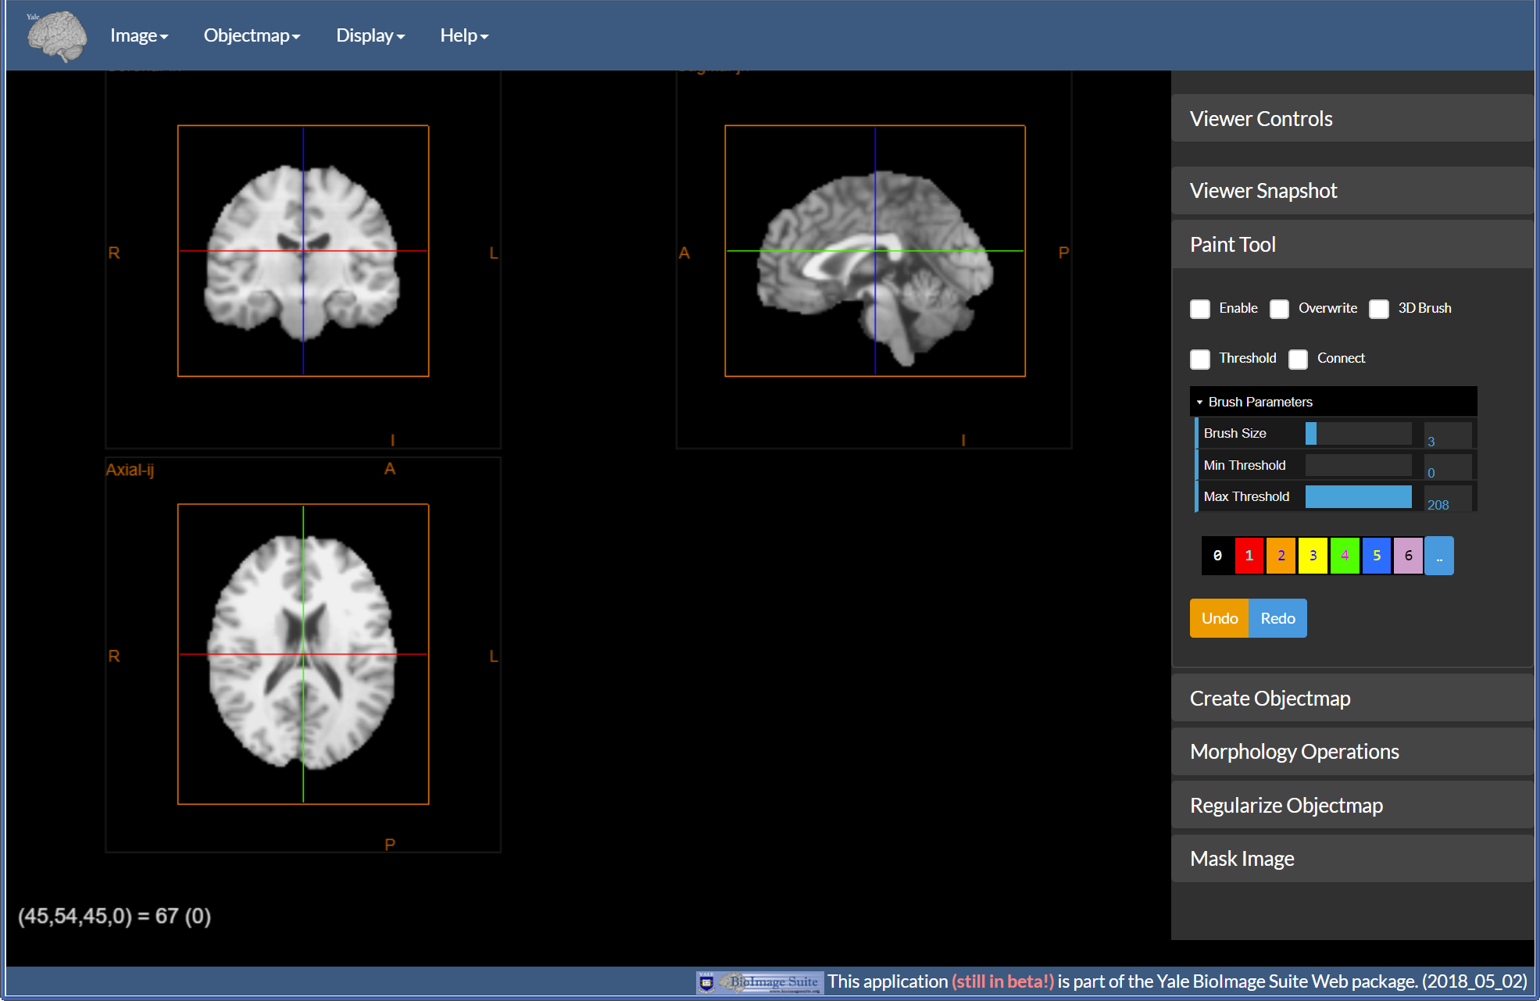
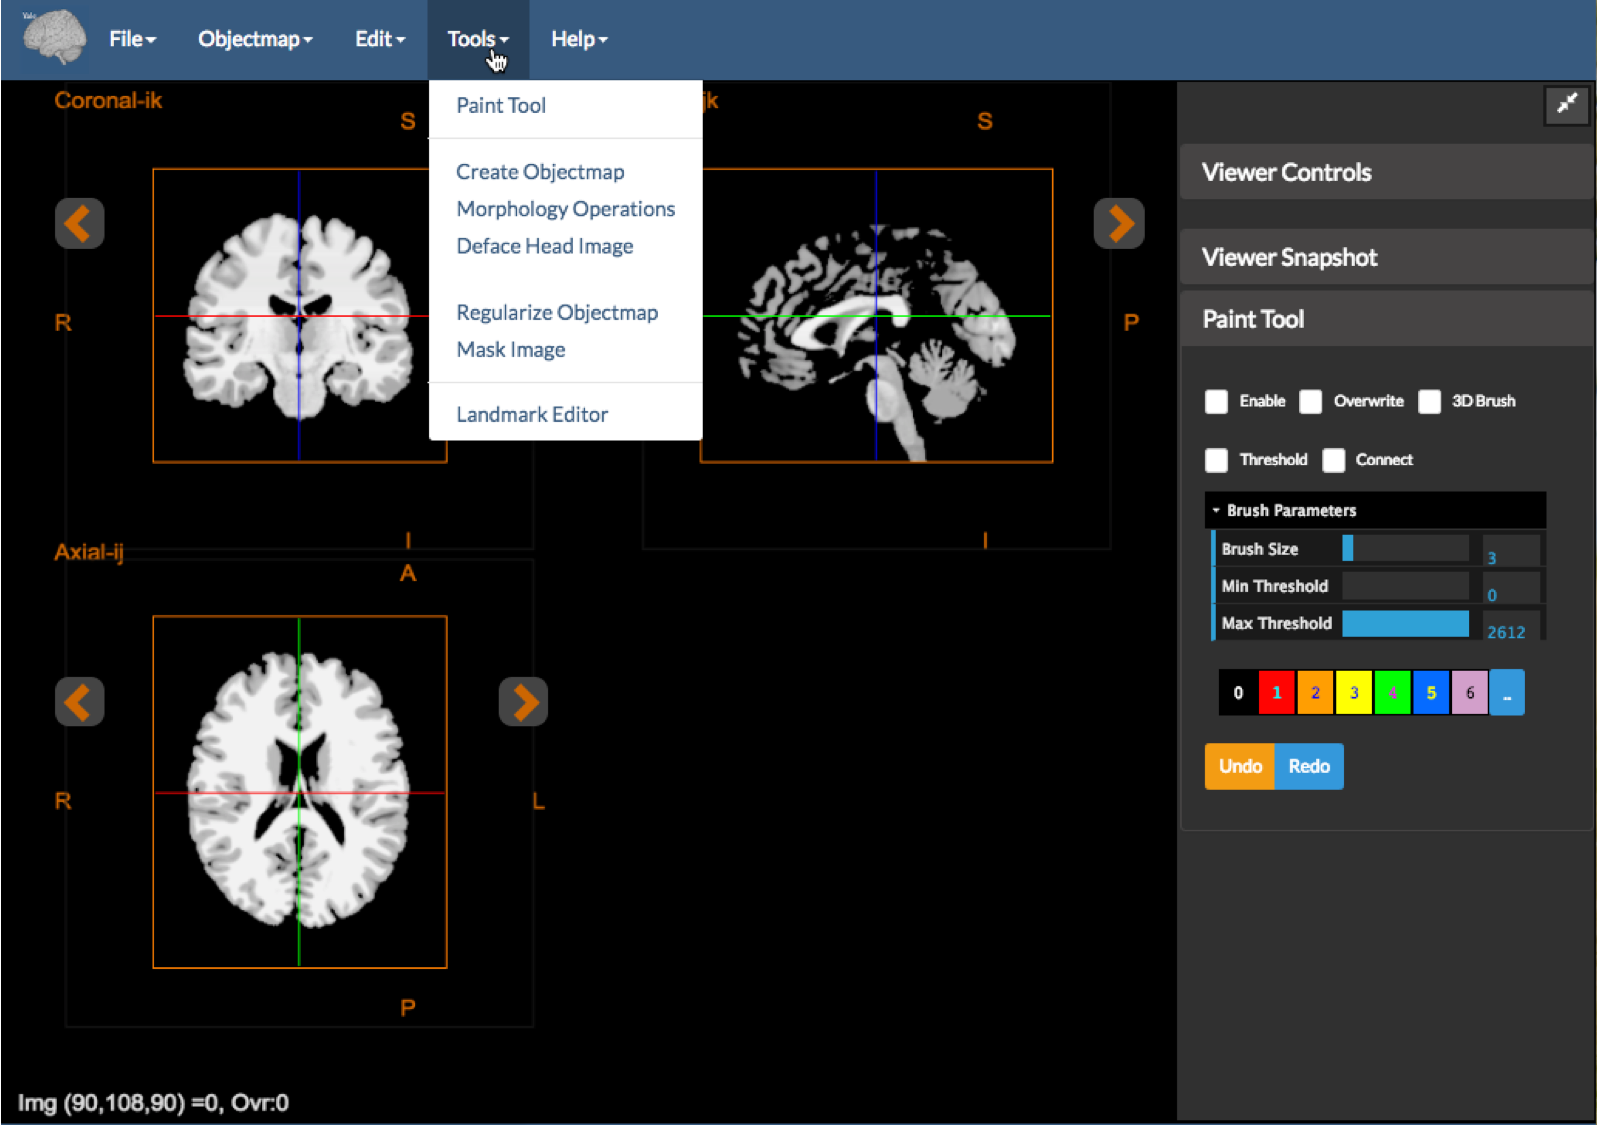
updaes to manual Sep 2018

diff --git a/docs/README.md b/docs/README.md
@@ -81,15 +81,14 @@ All BioImage Suite web applications share components and have a similar user int
 The application consists of the following parts:
 
 * A. The Menu Bar -- this provides access to all algorithmic functionality in the application. 
-    * `Image` -- functionality for loading and saving the underlay anatomical image
+    * `File` -- functionality for loading and saving the underlay anatomical image
     * `Overlay` -- functionality for loading and saving (and clearing) the overlay functional image. 
     * `Edit' -- typically contains Undo and Redo functionality for image manipulation operations and tools to move images from overlay to image etc.
     * `Image Processing` -- this contains the image processing tools.
     * `Segmentation` -- this contains more modules to perform image segmentation. In the `Dual Viewer` application there is also a `Registration` menu that contains the image registration tools.
-    * `Display` -- in this single viewer, this simply has an option to display information about the currently display image. In the `Dual Viewer` application there are additional options to set the relative size of the two viewers.
     * `Help` -- this contains the usual `About this Application` option plus options for setting user preferences.
 
-* B. The Viewer (one application has two viewers). This can display the two images in either single slice or three-linked slice views. There is also a viewer component (see `Overlay Tool`) which displays multiple parallel sections of the same image.
+* B. The Viewer (one application has two viewers). This can display the two images in either single slice or three-linked slice views. There is also a viewer component (see `Overlay Tool`) which displays multiple parallel sections of the same image. The orange arrows next to each slice view allow you to increment or decrement that slice as desired. If the image is '4D' movie controls will appear at the bottom of the screen.
 
 * C. The image information under the cursor. As you click in the image, the current coordinates (i,j,k) of the image and the current intensity of the image (and the overlay if present) are shown here.
 
@@ -104,7 +103,7 @@ The application consists of the following parts:
     * The `Z-` and `Z+` buttons perform zoom in and out operations. You may also zoom using the mouse wheel in the usual way.
     * The `?` button shows the current image information ('See H'). 
 
-* F. In the case of a 4D image, there will be extra controls in the `Viewer Controls`. This include the `Frame` slider for slecting the frame and the `Movie` controls for playing a movie and setting the framerate.
+* F. Expanded View of the Viewer Controls. In the case of a 4D image, there will be extra controls in the `Viewer Controls`. This include the `Frame` slider for slecting the frame and the `Movie` controls for playing a movie and setting the framerate.
 
 * G. The image color-mapping controls. This set the windowing for the anatomical image. Values below 'Min Int' are to black (and also fully transparent) and intensities above 'Max Int' are saturated to white. The `Interpolate` flag can be used to allow WebGL interpolation or not (smoother images vs being able to see the actual voxels). Finally the `Auto-Contrast` toggle enables automatic windowing if this is desired. If there is a funtional image loaded, an additional set of controls called `Overlap Color Mapping` will appear. More on this below.
 
@@ -115,7 +114,7 @@ The application consists of the following parts:
 * `Crop` -- if turned on automatically crops empty space in the viewer to give a more pleasing snapshot.
 * `Take Snapshot` -- this actually invokes the code to acquire a snapshot.
 
-* J. The `_` button at the top right of the sidebar can be used to minimize and restore the sidebar.
+* J. The "double arrow" button at the top right of the sidebar can be used to minimize and restore the sidebar.
 
 ---
 
@@ -138,6 +137,8 @@ To try this out, open the application from the main BioImage Suite web page (und
         * `Max Overlay` : values above these are saturated.
         * `Cluster Size` : if this is greater than 0 then cluster filtering is performed to eliminate `small` blobs.
     * `Red`, `Green`, `Blue`, `Orange`, `Gray` -- this display the image using an anatomical style mapping. This is useful for overlaying two anatomical images to check registration results etc. In this setting, no clustering is performed and the colorscale is hidden.
+
+_Note_: In the bottom corner of the viewer, the text ``Img (30,36,20) = 183.09, Ovr=-2203.83` now shows the intensity of both the anatomical image (183.09) and the overlay image (-2203.83).
 
 This viewer can also be switched to `Mosaic` view by clicking the `Mosaic` Tab (just below the menu).
 
@@ -166,7 +167,7 @@ The Image Editor tool shown above is a tool to create and visualize interactive 
 
 One can create an objectmap on one of three ways:
 
-* Load it from an existing binary file
+* Load it from an existing binary file. (Under `Objectmap` | Load)
 * Create it by manually defining the regions using the `Paint Tool`
 * Create it by thresholding the underlying image. The example above shows the use of the `Create Objectmap` tool (essentially a binary thresholding tool) to create the obejctmap.
 
@@ -174,7 +175,7 @@ One can create an objectmap on one of three ways:
 
 ![Image Editor Parts](images/imageeditor_parts.png)
 
-Once an objectmap is n memory it can displayed and manipulated using tools provided in the `Image Editor` Tool. The figure above highlights five different pieces of functionality as follows:
+Once an objectmap is n memory it can displayed and manipulated using tools provided in the `Image Editor` Tool. The figure above highlights five different pieces of functionality (accessible from the `Tools` menu) as follows:
 
 * A: Overlay color mapping: Here we assume explicitly that the overlay is an objectmap hence the only display/color mapping option available is the `Opacity`. 
 * B: The Paint Tool: this is the core of the BioImage Suite Web interactive segmentation tools. Essentially this is a smart paint-brush tool where the user selects a color (6 shown below plus more can be accessed by pressing the `...` button) and paints over the image to create/edit an objectmap.
